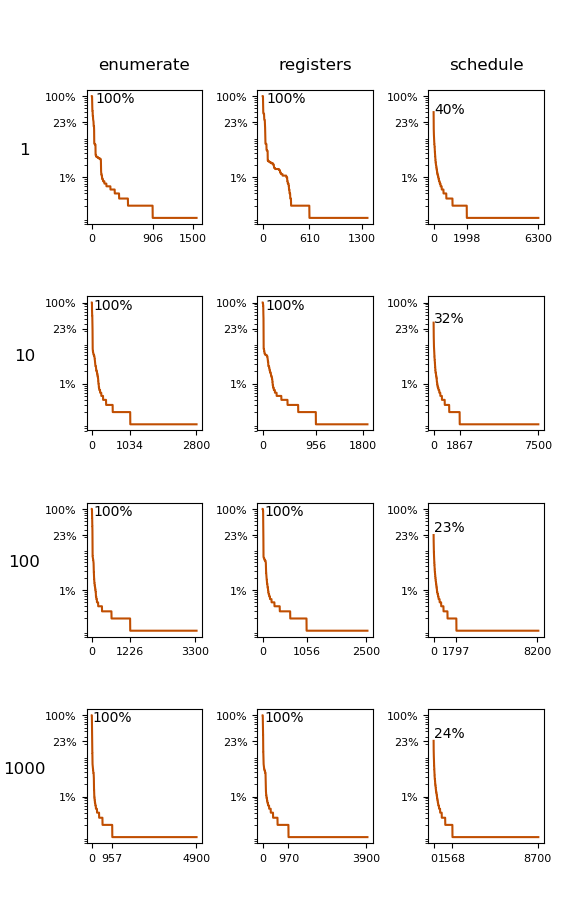
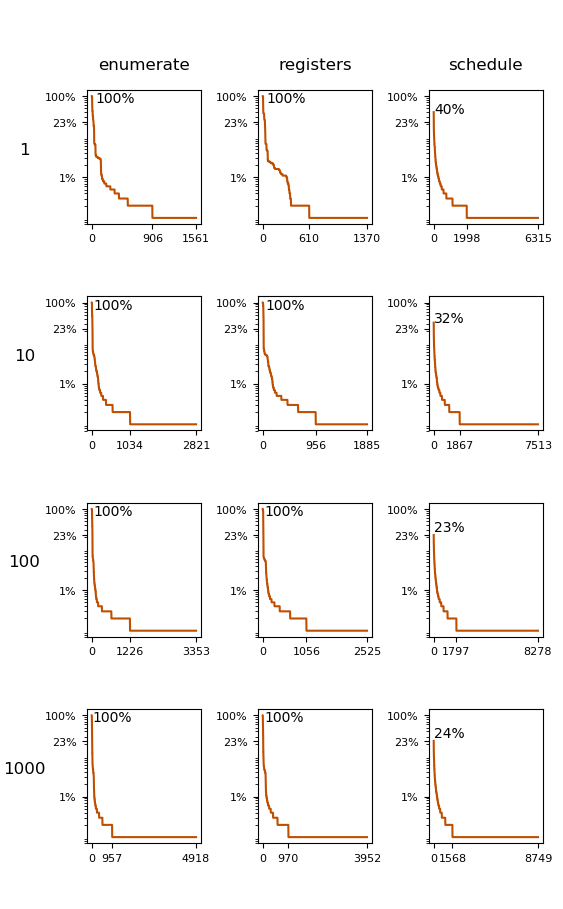
Don't round down number of gadgets

diff --git a/scripts/gadget_analysis.py b/scripts/gadget_analysis.py
@@ -49,13 +49,13 @@ for programs in os.listdir(root_dir):
     print("Processing {}.{}".format(strat, rate))
     data = read_program_gadgets_information(os.path.join(root_dir, programs))
     data.sort(reverse=True)
-    #data = [d for d in data if d >= 1]
+    #data = [d for d in data if d > min(data)]
 
 
     axarr[row][column].set_yscale('log')
     axarr[row][column].yaxis.set_major_formatter(mtick.PercentFormatter())
     axarr[row][column].set_yticks( list(axarr[row][column].get_yticks()) + [max(data)] )
-    axarr[row][column].set_xticks( [ 0, data.index(min(data)), int((len(data)/100))*100] ) # Round # of gadgets down to nearest 100
+    axarr[row][column].set_xticks( [ 0, data.index(min(data)), len(data)] )
     axarr[row][column].plot(data, color="xkcd:burnt orange")#, width=0.8, snap=False)
 
 
